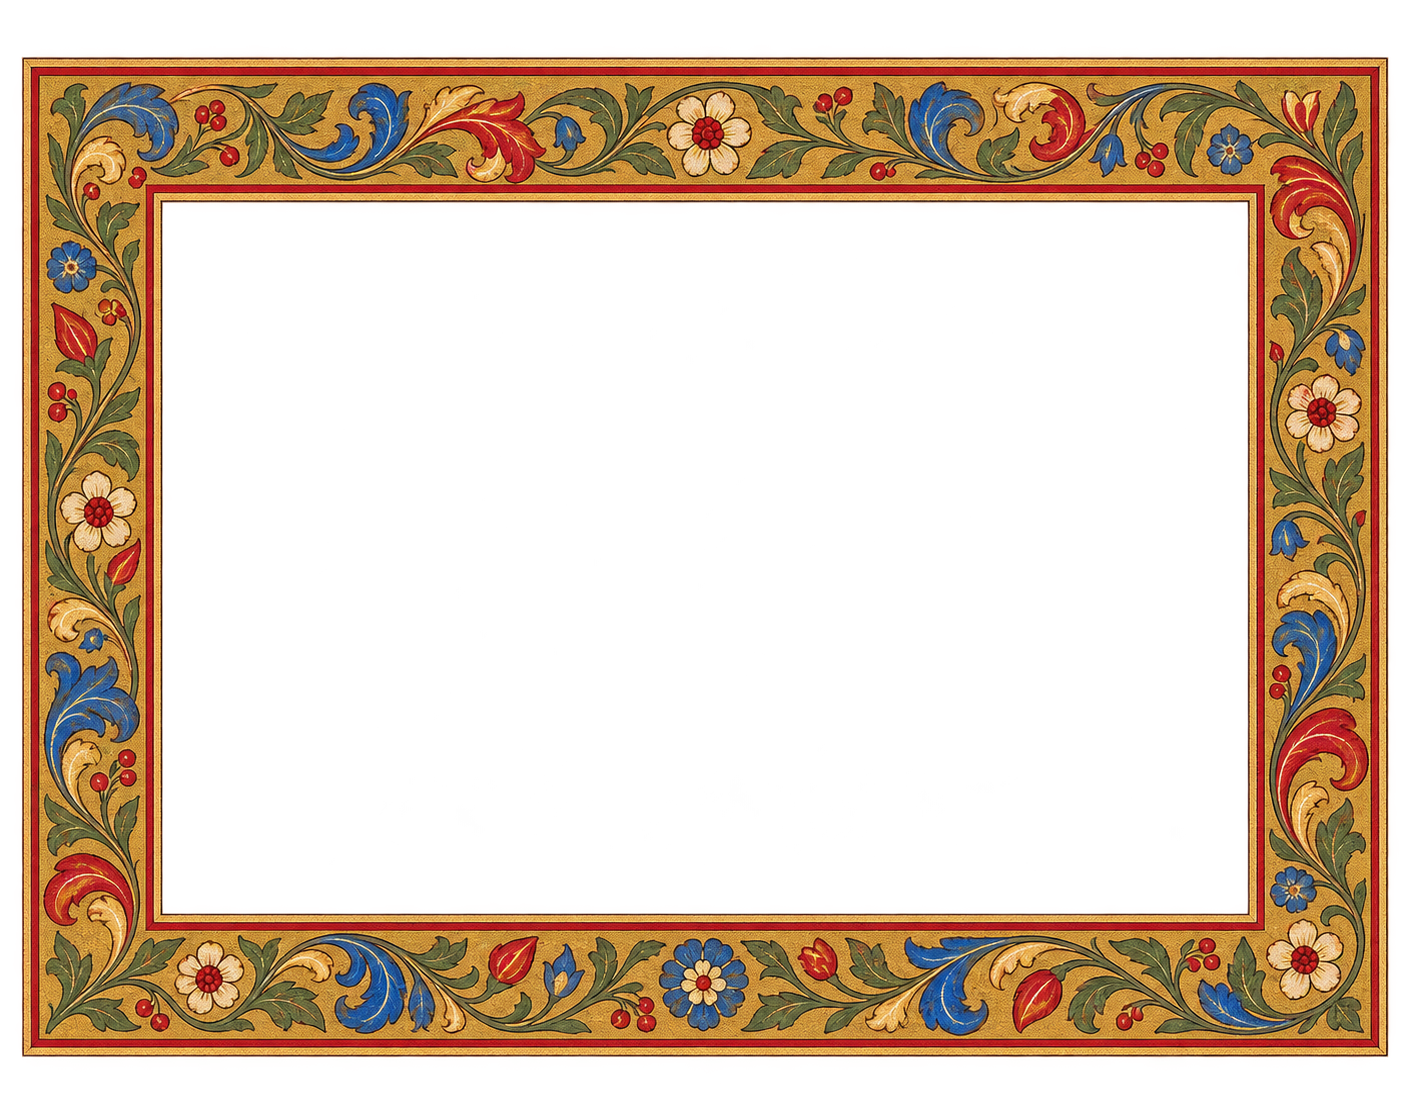
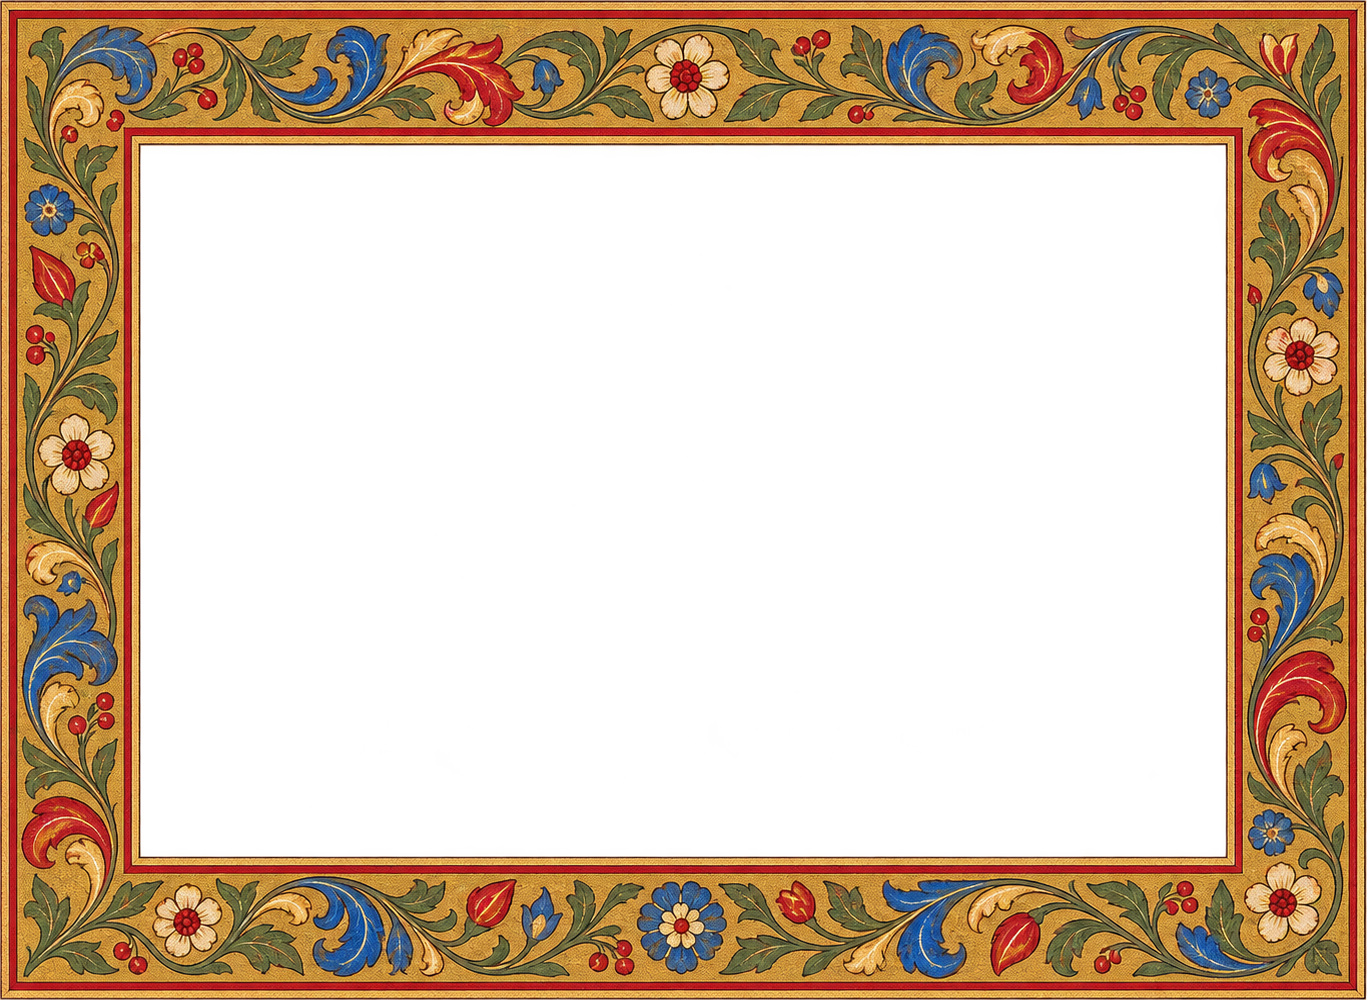
floral-frame: crop the master to the delivered 1367x1000 and declare the 146 px border-image slice

diff --git a/README.md b/README.md
@@ -32,7 +32,7 @@ Package `@ranx729/ducktape-assets-illuminated-acanthus`; every file, width and f
 | `divider-center` | Divider centrepiece | divider | 1774 × 887 | ivy-border | approved |
 | `divider-end` | Divider, right terminal | divider | 1448 × 1086 | ivy-border | approved |
 | `divider-start` | Divider, left terminal | divider | 1448 × 1086 | ivy-border | approved |
-| `floral-frame` | Floral frame | frame | 1410 × 1116 | floral-border | approved |
+| `floral-frame` | Floral frame | frame | 1367 × 1000 | floral-border | approved |
 | `frame` | Ruled acanthus frame | frame | 1536 × 1024 | ivy-border | approved |
 | `frame-growth-bottom-left` | Floral frame corner, bottom-left | corner | 1254 × 1254 | floral-border | approved |
 | `frame-growth-bottom-right` | Floral frame corner, bottom-right | corner | 1254 × 1254 | floral-border | approved |
